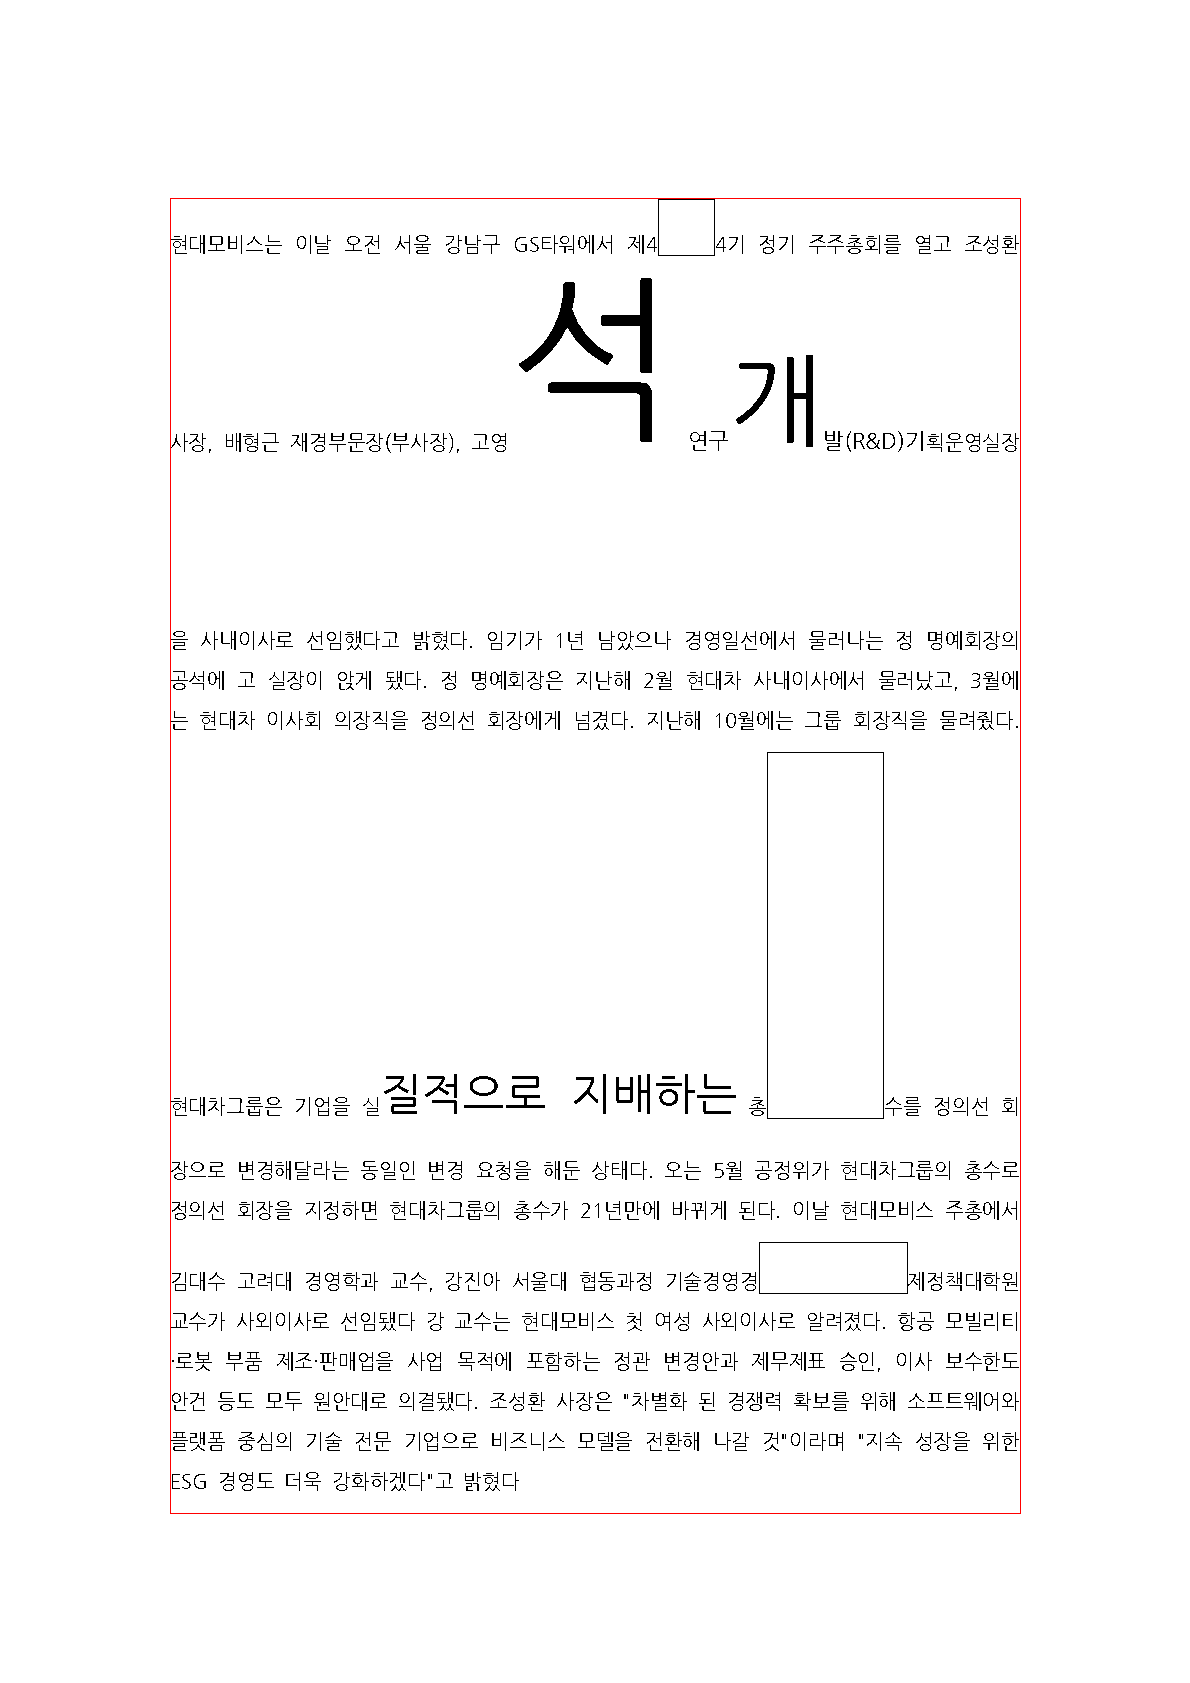
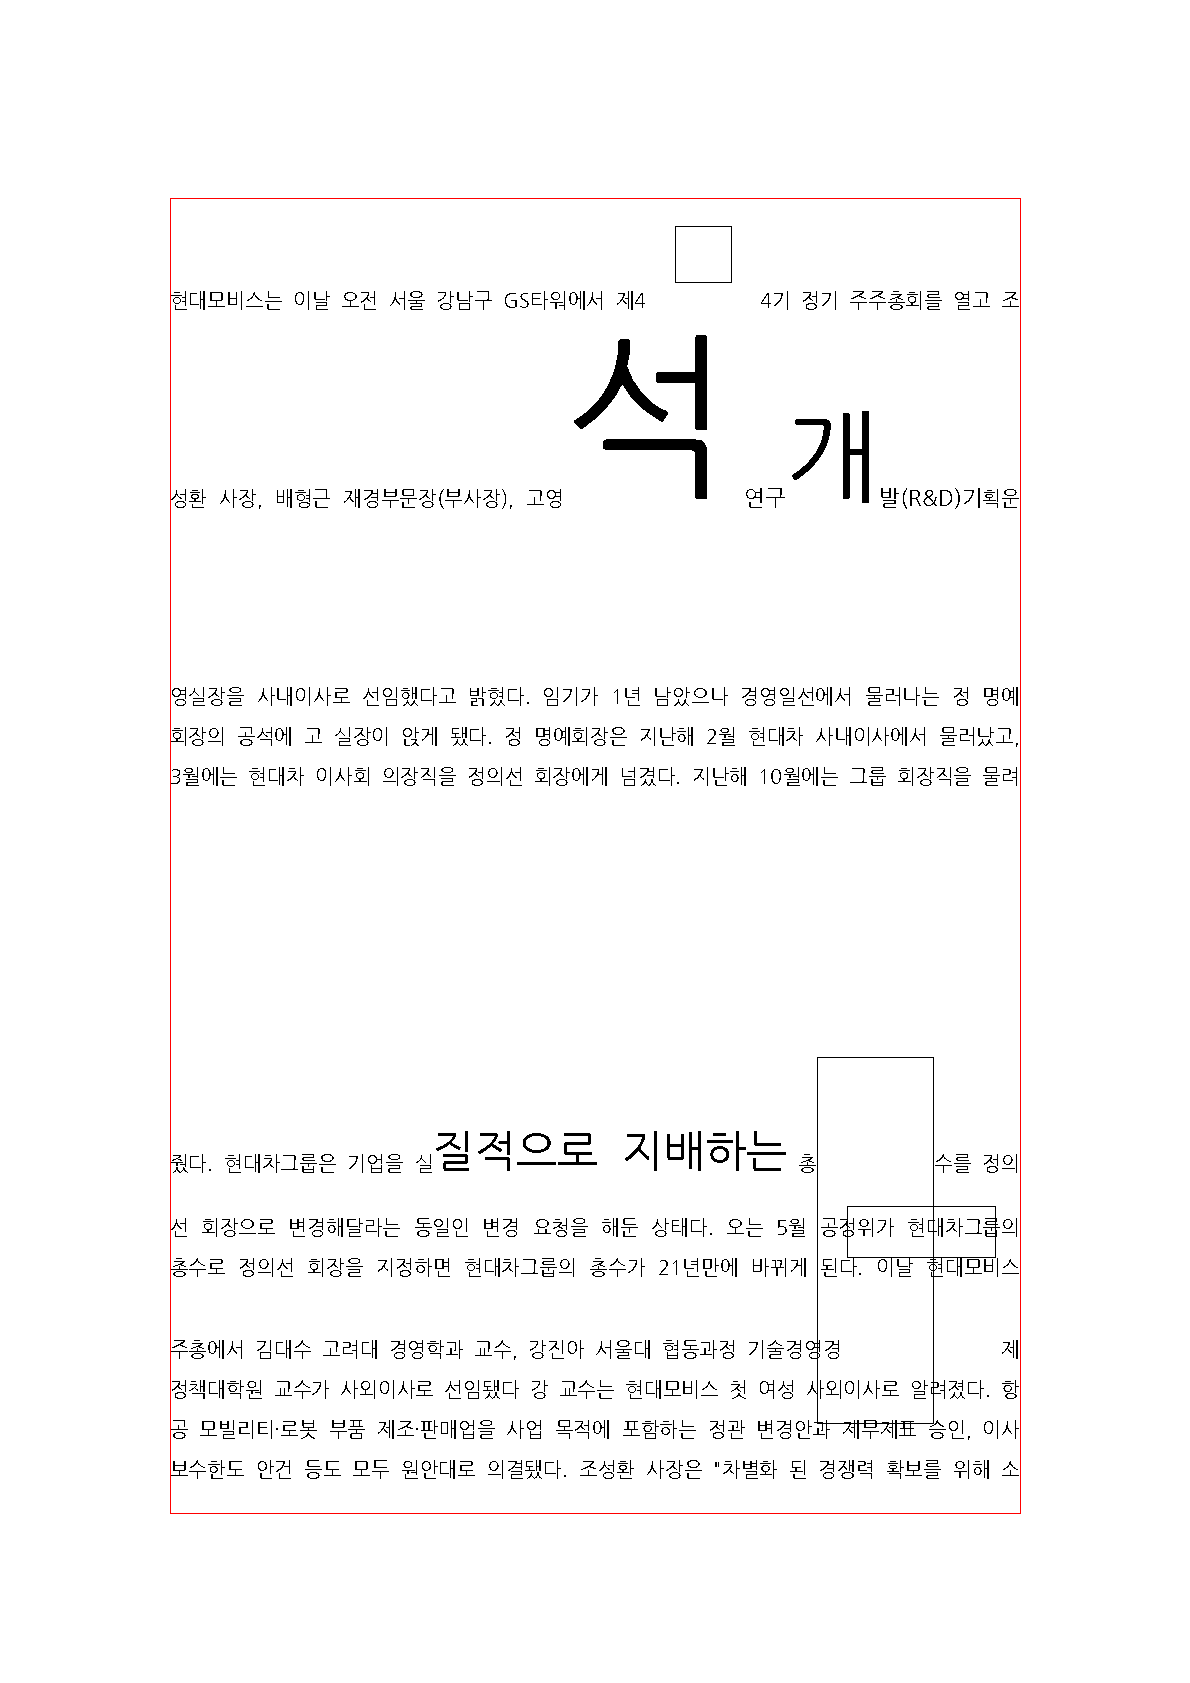
2021/04/22-3

Changed region(s): [[0.1555, 0.6179, 0.8706, 0.896], [0.1555, 0.3708, 0.8706, 0.4635], [0.4353, 0.1545, 0.7462, 0.309]]

diff --git a/src/main/java/kr/dogfoot/hwplib/drawer/painter/control/ControlPainter.java b/src/main/java/kr/dogfoot/hwplib/drawer/painter/control/ControlPainter.java
@@ -2,13 +2,9 @@ package kr.dogfoot.hwplib.drawer.painter.control;
 
 import kr.dogfoot.hwplib.drawer.drawinginfo.DrawingInfo;
 import kr.dogfoot.hwplib.drawer.painter.Painter;
-import kr.dogfoot.hwplib.drawer.paragraph.ParagraphDrawer;
 import kr.dogfoot.hwplib.drawer.paragraph.charInfo.ControlCharInfo;
-import kr.dogfoot.hwplib.drawer.util.Area;
 import kr.dogfoot.hwplib.object.bodytext.control.ControlTable;
 import kr.dogfoot.hwplib.object.bodytext.control.gso.*;
-import kr.dogfoot.hwplib.object.bodytext.control.gso.textbox.TextBox;
-import kr.dogfoot.hwplib.object.bodytext.paragraph.Paragraph;
 
 import java.util.TreeSet;
 

diff --git a/src/test/java/kr/dogfoot/hwplib/drawer/ControllTest.java b/src/test/java/kr/dogfoot/hwplib/drawer/ControllTest.java
@@ -6,8 +6,13 @@ import java.io.File;
 
 public class ControllTest {
     @Test
-    public void test_위치() throws Exception {
-        HWPTester.testAndCompare("testingHWP" + File.separator + "컨트롤" + File.separator + "위치");
+    public void test_위치1() throws Exception {
+        HWPTester.testAndCompare("testingHWP" + File.separator + "컨트롤" + File.separator + "위치1");
+    }
+
+    @Test
+    public void test_위치2() throws Exception {
+        HWPTester.testAndCompare("testingHWP" + File.separator + "컨트롤" + File.separator + "위치2");
     }
 
     @Test

diff --git a/src/main/java/kr/dogfoot/hwplib/drawer/painter/control/GsoPainter.java b/src/main/java/kr/dogfoot/hwplib/drawer/painter/control/GsoPainter.java
@@ -3,7 +3,6 @@ package kr.dogfoot.hwplib.drawer.painter.control;
 import kr.dogfoot.hwplib.drawer.drawinginfo.DrawingInfo;
 import kr.dogfoot.hwplib.drawer.painter.Painter;
 import kr.dogfoot.hwplib.drawer.paragraph.ParagraphDrawer;
-import kr.dogfoot.hwplib.drawer.paragraph.TextPart;
 import kr.dogfoot.hwplib.drawer.util.Area;
 import kr.dogfoot.hwplib.object.bodytext.control.gso.*;
 import kr.dogfoot.hwplib.object.bodytext.control.gso.textbox.TextBox;

diff --git a/src/test/java/kr/dogfoot/hwplib/drawer/TableTest.java b/src/test/java/kr/dogfoot/hwplib/drawer/TableTest.java
@@ -7,6 +7,6 @@ import java.io.File;
 public class TableTest {
     @Test
     public void test_표_일반() throws Exception {
-        HWPTester.test("testingHWP" + File.separator + "컨트롤" + File.separator + "표" + File.separator + "일반");
+        HWPTester.testAndCompare("testingHWP" + File.separator + "컨트롤" + File.separator + "표" + File.separator + "일반");
     }
 }

diff --git a/src/test/java/kr/dogfoot/hwplib/drawer/Test.java b/src/test/java/kr/dogfoot/hwplib/drawer/Test.java
@@ -5,6 +5,5 @@ import java.io.File;
 public class Test {
     @org.junit.Test
     public void test_글자모양_글자크기2() throws Exception {
-        HWPTester.test("testingHWP" + File.separator + "오류" + File.separator + "2");
     }
 }

diff --git a/src/main/java/kr/dogfoot/hwplib/drawer/painter/PagePainter.java b/src/main/java/kr/dogfoot/hwplib/drawer/painter/PagePainter.java
@@ -15,7 +15,6 @@ import java.io.IOException;
 
 public class PagePainter {
     private DrawingInfo info;
-    private DrawingOption option;
 
     private Painter painter;
     private int currentPageNo;

diff --git a/src/main/java/kr/dogfoot/hwplib/drawer/painter/control/CellPositionCalculator.java b/src/main/java/kr/dogfoot/hwplib/drawer/painter/control/CellPositionCalculator.java
@@ -1,7 +1,5 @@
 package kr.dogfoot.hwplib.drawer.painter.control;
 
-import kr.dogfoot.hwplib.object.bodytext.control.table.Row;
-
 import java.util.ArrayList;
 
 public class CellPositionCalculator {
